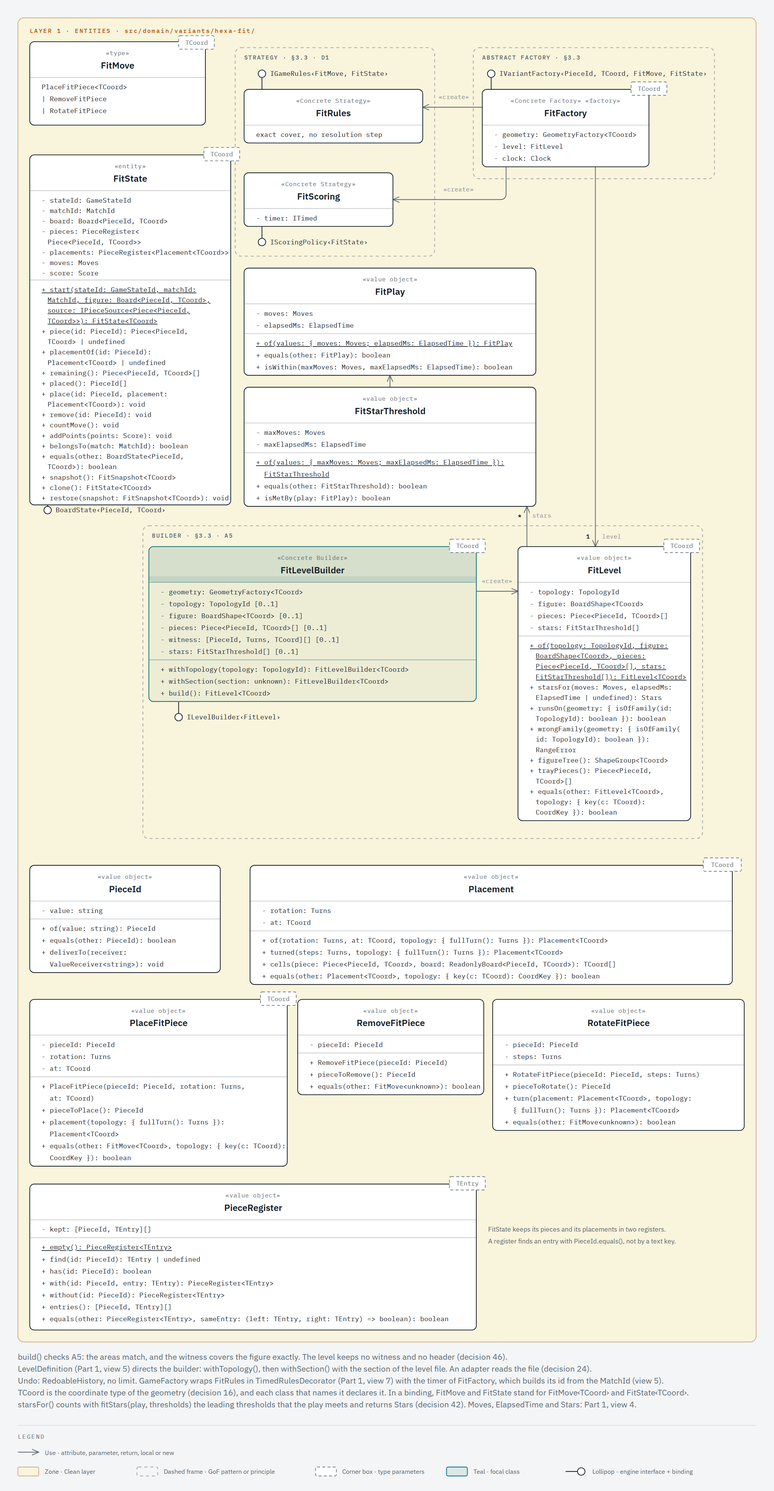
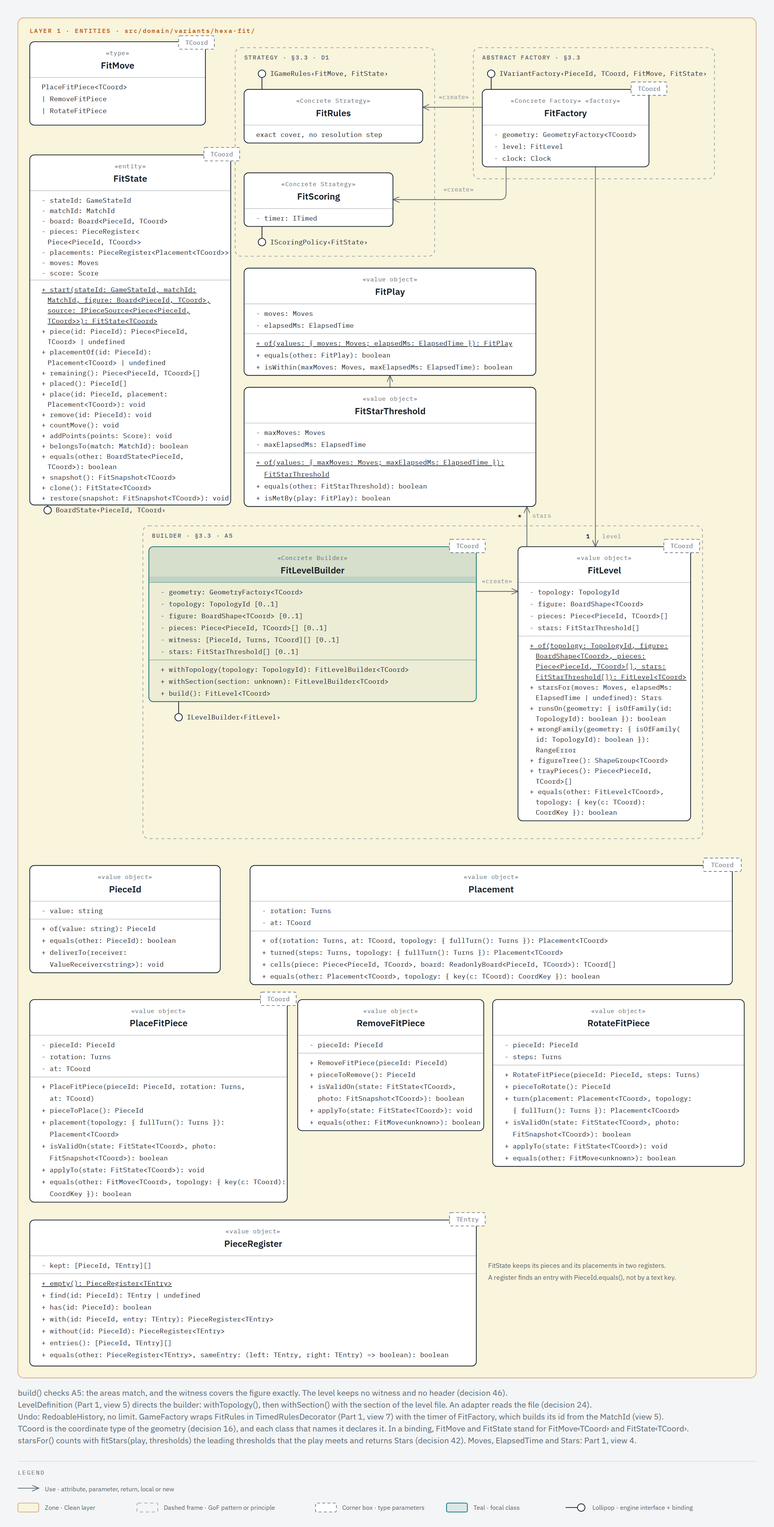
docs(architecture): describe the Fit move operations in decision 43 and the Fit view
Refs #244

diff --git a/docs/architecture/classes/views/variant-2-fit.html b/docs/architecture/classes/views/variant-2-fit.html
@@ -64,7 +64,7 @@
       <h1>Hexa Fit: levels built and checked by a Builder</h1>
 
       <svg
-        viewBox="0 0 1040 2002"
+        viewBox="0 0 1040 2050"
         xmlns="http://www.w3.org/2000/svg"
         role="img"
         aria-labelledby="fit-title fit-desc"
@@ -77,15 +77,17 @@
           thresholds of its stars as stars and counts the stars of a play with starsFor().
           FitFactory holds one FitLevel and a Clock and creates FitRules and FitScoring. It builds
           the LevelTimerId of each timer from the MatchId of the game. FitRules uses FitMove as
-          TMove and FitState as TState. Lollipops show the engine interface each variant class
-          implements, with its binding. PieceId, the cell content, and Placement, the rotation and
-          the offset of a placed piece, are value objects. PieceRegister is the value object that
-          holds the pieces and the placements of FitState and finds an entry with PieceId.equals().
-          FitState is an entity inside the GameEngine aggregate: its own GameStateId is its
-          identity, it keeps the MatchId of its game, and it changes in place only through its
-          business methods. FitPlay holds the Moves and the ElapsedTime of one won level in private
-          fields, and FitStarThreshold tells whether a play meets its two limits: it gives them to
-          isWithin() of the play. Both are value objects.
+          TMove and FitState as TState. Each Fit move holds its own check, isValidOn(), and its own
+          change, applyTo(), so FitRules asks the move and never tells the moves apart by their
+          class (decision 43). Lollipops show the engine interface each variant class implements,
+          with its binding. PieceId, the cell content, and Placement, the rotation and the offset of
+          a placed piece, are value objects. PieceRegister is the value object that holds the pieces
+          and the placements of FitState and finds an entry with PieceId.equals(). FitState is an
+          entity inside the GameEngine aggregate: its own GameStateId is its identity, it keeps the
+          MatchId of its game, and it changes in place only through its business methods. FitPlay
+          holds the Moves and the ElapsedTime of one won level in private fields, and
+          FitStarThreshold tells whether a play meets its two limits: it gives them to isWithin() of
+          the play. Both are value objects.
         </desc>
         <defs>
           <marker
@@ -146,7 +148,7 @@
           x="24"
           y="24"
           width="992"
-          height="1778"
+          height="1826"
           rx="8"
           fill="#f9f4dc"
           stroke="rgba(180,83,9,0.45)"
@@ -1228,7 +1230,7 @@
           x="40"
           y="1342"
           width="346"
-          height="224"
+          height="272"
           rx="6"
           fill="#ffffff"
           stroke="#17212a"
@@ -1283,9 +1285,18 @@
           Placement&lt;TCoord&gt;
         </text>
         <text x="56" y="1542" fill="#17212a" font-size="9" font-family="'IBM Plex Mono', monospace">
-          + equals(other: FitMove&lt;TCoord&gt;, topology: { key(c: TCoord):
+          + isValidOn(state: FitState&lt;TCoord&gt;, photo:
         </text>
         <text x="67" y="1558" fill="#17212a" font-size="9" font-family="'IBM Plex Mono', monospace">
+          FitSnapshot&lt;TCoord&gt;): boolean
+        </text>
+        <text x="56" y="1574" fill="#17212a" font-size="9" font-family="'IBM Plex Mono', monospace">
+          + applyTo(state: FitState&lt;TCoord&gt;): void
+        </text>
+        <text x="56" y="1590" fill="#17212a" font-size="9" font-family="'IBM Plex Mono', monospace">
+          + equals(other: FitMove&lt;TCoord&gt;, topology: { key(c: TCoord):
+        </text>
+        <text x="67" y="1606" fill="#17212a" font-size="9" font-family="'IBM Plex Mono', monospace">
           CoordKey }): boolean
         </text>
 
@@ -1294,7 +1305,7 @@
           x="400"
           y="1342"
           width="250"
-          height="128"
+          height="176"
           rx="6"
           fill="#ffffff"
           stroke="#17212a"
@@ -1358,6 +1369,33 @@
           font-size="9"
           font-family="'IBM Plex Mono', monospace"
         >
+          + isValidOn(state: FitState&lt;TCoord&gt;,
+        </text>
+        <text
+          x="427"
+          y="1478"
+          fill="#17212a"
+          font-size="9"
+          font-family="'IBM Plex Mono', monospace"
+        >
+          photo: FitSnapshot&lt;TCoord&gt;): boolean
+        </text>
+        <text
+          x="416"
+          y="1494"
+          fill="#17212a"
+          font-size="9"
+          font-family="'IBM Plex Mono', monospace"
+        >
+          + applyTo(state: FitState&lt;TCoord&gt;): void
+        </text>
+        <text
+          x="416"
+          y="1510"
+          fill="#17212a"
+          font-size="9"
+          font-family="'IBM Plex Mono', monospace"
+        >
           + equals(other: FitMove&lt;unknown&gt;): boolean
         </text>
 
@@ -1366,7 +1404,7 @@
           x="662"
           y="1342"
           width="338"
-          height="176"
+          height="224"
           rx="6"
           fill="#ffffff"
           stroke="#17212a"
@@ -1471,13 +1509,40 @@
           font-size="9"
           font-family="'IBM Plex Mono', monospace"
         >
+          + isValidOn(state: FitState&lt;TCoord&gt;, photo:
+        </text>
+        <text
+          x="689"
+          y="1526"
+          fill="#17212a"
+          font-size="9"
+          font-family="'IBM Plex Mono', monospace"
+        >
+          FitSnapshot&lt;TCoord&gt;): boolean
+        </text>
+        <text
+          x="678"
+          y="1542"
+          fill="#17212a"
+          font-size="9"
+          font-family="'IBM Plex Mono', monospace"
+        >
+          + applyTo(state: FitState&lt;TCoord&gt;): void
+        </text>
+        <text
+          x="678"
+          y="1558"
+          fill="#17212a"
+          font-size="9"
+          font-family="'IBM Plex Mono', monospace"
+        >
           + equals(other: FitMove&lt;unknown&gt;): boolean
         </text>
 
         <!-- Class: PieceRegister (value object, decision 49) -->
         <rect
           x="40"
-          y="1590"
+          y="1638"
           width="600"
           height="196"
           rx="6"
@@ -1485,10 +1550,10 @@
           stroke="#17212a"
           stroke-width="1"
         />
-        <line x1="40" y1="1638" x2="640" y2="1638" stroke="rgba(23,33,42,0.22)" stroke-width="1" />
+        <line x1="40" y1="1686" x2="640" y2="1686" stroke="rgba(23,33,42,0.22)" stroke-width="1" />
         <text
           x="340"
-          y="1608"
+          y="1656"
           fill="#5b6873"
           font-size="8"
           font-family="'IBM Plex Mono', monospace"
@@ -1499,7 +1564,7 @@
         </text>
         <text
           x="340"
-          y="1626"
+          y="1674"
           fill="#17212a"
           font-size="12"
           font-weight="600"
@@ -1508,13 +1573,13 @@
         >
           PieceRegister
         </text>
-        <text x="56" y="1654" fill="#17212a" font-size="9" font-family="'IBM Plex Mono', monospace">
+        <text x="56" y="1702" fill="#17212a" font-size="9" font-family="'IBM Plex Mono', monospace">
           - kept: [PieceId, TEntry][]
         </text>
-        <line x1="40" y1="1662" x2="640" y2="1662" stroke="rgba(23,33,42,0.22)" stroke-width="1" />
+        <line x1="40" y1="1710" x2="640" y2="1710" stroke="rgba(23,33,42,0.22)" stroke-width="1" />
         <text
           x="56"
-          y="1678"
+          y="1726"
           fill="#17212a"
           font-size="9"
           font-family="'IBM Plex Mono', monospace"
@@ -1522,28 +1587,28 @@
         >
           + empty(): PieceRegister&lt;TEntry&gt;
         </text>
-        <text x="56" y="1694" fill="#17212a" font-size="9" font-family="'IBM Plex Mono', monospace">
+        <text x="56" y="1742" fill="#17212a" font-size="9" font-family="'IBM Plex Mono', monospace">
           + find(id: PieceId): TEntry | undefined
         </text>
-        <text x="56" y="1710" fill="#17212a" font-size="9" font-family="'IBM Plex Mono', monospace">
+        <text x="56" y="1758" fill="#17212a" font-size="9" font-family="'IBM Plex Mono', monospace">
           + has(id: PieceId): boolean
         </text>
-        <text x="56" y="1726" fill="#17212a" font-size="9" font-family="'IBM Plex Mono', monospace">
+        <text x="56" y="1774" fill="#17212a" font-size="9" font-family="'IBM Plex Mono', monospace">
           + with(id: PieceId, entry: TEntry): PieceRegister&lt;TEntry&gt;
         </text>
-        <text x="56" y="1742" fill="#17212a" font-size="9" font-family="'IBM Plex Mono', monospace">
+        <text x="56" y="1790" fill="#17212a" font-size="9" font-family="'IBM Plex Mono', monospace">
           + without(id: PieceId): PieceRegister&lt;TEntry&gt;
         </text>
-        <text x="56" y="1758" fill="#17212a" font-size="9" font-family="'IBM Plex Mono', monospace">
+        <text x="56" y="1806" fill="#17212a" font-size="9" font-family="'IBM Plex Mono', monospace">
           + entries(): [PieceId, TEntry][]
         </text>
-        <text x="56" y="1774" fill="#17212a" font-size="9" font-family="'IBM Plex Mono', monospace">
+        <text x="56" y="1822" fill="#17212a" font-size="9" font-family="'IBM Plex Mono', monospace">
           + equals(other: PieceRegister&lt;TEntry&gt;, sameEntry: (left: TEntry, right: TEntry)
           =&gt; boolean): boolean
         </text>
         <text
           x="656"
-          y="1654"
+          y="1702"
           fill="#5b6873"
           font-size="9"
           font-family="'IBM Plex Sans', sans-serif"
@@ -1552,7 +1617,7 @@
         </text>
         <text
           x="656"
-          y="1670"
+          y="1718"
           fill="#5b6873"
           font-size="9"
           font-family="'IBM Plex Sans', sans-serif"
@@ -1583,7 +1648,7 @@
         </text>
         <rect
           x="604"
-          y="1580"
+          y="1628"
           width="48"
           height="18"
           rx="2"
@@ -1594,7 +1659,7 @@
         />
         <text
           x="628"
-          y="1592"
+          y="1640"
           fill="#5b6873"
           font-size="8.5"
           font-family="'IBM Plex Mono', monospace"
@@ -1728,8 +1793,8 @@
         >
           TCoord
         </text>
-        <!-- The footnote and the legend sit below the zone, which grew by 872. -->
-        <g transform="translate(0 872)">
+        <!-- The footnote and the legend sit below the zone, which grew by 920. -->
+        <g transform="translate(0 920)">
           <!-- Footnote: classes the budget leaves out -->
           <text
             x="24"

diff --git a/docs/architecture/classes.md b/docs/architecture/classes.md
@@ -276,7 +276,7 @@ Decisions 41 to 49 planned the units of the domain redesign, and each one names 
 40. **`GameFactory` creates the whole aggregate.** `GameFactory<TCell, TCoord, TMove, TState>` in `src/domain/engine/game-factory.ts` is the DDD factory of the aggregate: it creates the root with all its parts as one piece. It takes the `GameId` of the game, an `IVariantFactory` and a `MatchIdGenerator`. The composition root finds the variant factory of the chosen game with `isFor(gameId)` and gives both, so the variant factory keeps its id private (decision 30, #234). It takes no publisher, because the root records its events and `ApplyMove` delivers them (#233). Only the root has global identity (decision 52): the generator gives the `MatchId`, and `GameFactory` builds the local ids of the first state and of its board from it, with `GameStateId.of(matchId)` and `BoardId.of(matchId)`. The design decision of 2026-11-15 (#236) replaced the generators of the internal ids that the decision of 2026-11-10 asked for: the factory builds each internal id without a collaborator from outside the domain, and each entity still has its own id and its `equals()`. **The generator guarantees uniqueness** (decision of 2026-11-10 on #212): each `next()` of `MatchIdGenerator` gives an id that the generator did not give before. `GameFactory` does not check it and keeps no list of the ids that it gave: such a list would live only as long as one `GameFactory`, and no code compares two games of different matches. Each internal id keeps the `MatchId` of its match, so the states, the boards and the timers of two matches are different. A generator that repeats an id gives two equal engines, and their states, boards and timers are equal too; the test `should_hold_equal_games_states_boards_and_timers_when_the_match_id_generator_repeats_an_id` in `test/domain/engine/entity-ids-regression.test.ts` pins that behaviour. Only a test generator exists today. The real generator of layer 4 comes with the composition root (#162) and must keep this contract, for example with a UUID. `createGame(): GameEngine<TCell, TCoord, TMove, TState>` asks the generator for one new `MatchId`, asks the variant factory for the timer with that `MatchId`, the rules, the scoring, the history and the first state with its three ids, wraps the rules of a timed game in `TimedRulesDecorator` with the timer, gives the same timer to the root (decision 19), and returns the started `GameEngine`. `IVariantFactory` stays the Abstract Factory that creates the family of parts of one variant (decision 31), and it has no `createGame()`: to put the parts together is the same work for every variant, so one engine class does it once, and a fifth variant writes no assembly. `StartGame` keeps the `GameFactory` and the `GameRepository`: it asks for the started game and saves it, so no use case builds a domain object part by part. An error of the generator or of the variant factory leaves `createGame()` as it is thrown, and `StartGame` answers `start-failed`. The composition root gives the generator to the `GameFactory` and the publisher to `ApplyMove` (#162). The timer of a timed variant takes its local id the same way: `IVariantFactory.createTimer(matchId)` takes the `MatchId`, and `FitFactory` builds the `LevelTimerId` from it (decision 50). Views 5 and 3.2, and flow 3.
 41. **`Score` replaces the number of every score (#203).** The class of 2026-11-09 forbids primitives in the domain model, except the boolean, and gives the score as the example of a value object. `Score` in `src/domain/engine/score.ts` is a value object: `Score.of(value)` checks the value, `equals()` compares two scores by value, and the object is frozen. One rule holds for the score of a game and for the points of a turn: a safe integer of 0 or more, the rule of the backend `Score` (hexablock-api#87). Any other number throws a `RangeError`, and `-0` counts as 0. So the app never keeps a score that the backend refuses. Before #203 the app took any finite number. `add()` gives the sum of two scores as a new `Score`, and a sum above `Number.MAX_SAFE_INTEGER` throws a `RangeError`. `times(factor)` gives the product of a score and a whole factor of 0 or more, with the same limit, and any other factor throws a `RangeError`. `isHigherThan()` tells which of two scores is higher, and an equal score is not higher. `BoardSnapshot.score`, `BoardState.addPoints()`, `IScoringPolicy.score()`, `ScoringDecorator.score()`, the five scoring policies, `GameOver.finalScore`, `GameResult.score` and `ProgressRecord.score` take or return a `Score`, and each variant state keeps one in a private field. The checks of a finite score in `GameEngine`, `GameOver`, `GameResult`, `ProgressRecord` and the four states are gone: a `Score` is valid when it exists. The state still changes in place (decision 7): `addPoints()` replaces its `Score` with the sum. A policy that gives no valid score throws inside the turn, and so does a total above the largest safe integer. Both leave the turn unsaved, with the board, the score and the phase as they were. A use case never opens a domain object, so `MoveResult.score` carries the `Score`, and the presenter of layer 3 receives the number. The counters of #204 and the outcome of #207 follow the same rule. `Score.value` is private since #228. The rule of the class of 2026-11-09 says that the attributes of a value object are private, and the design decision of 2026-11-10 says that a value object delivers its datum to a receiver and that no operation returns it. `ValueReceiver<T>` in `src/domain/engine/value-receiver.ts` is the receiver, with `receive(value: T): void`. `Score.deliverTo(receiver)` gives it the number and returns nothing. Both names are the names that hexablock-api#90 fixes for the backend. An adapter of the edge implements the receiver, because a screen and a request need the number. No line of `src/domain/` or `src/application/` calls `deliverTo()`: the domain compares with `equals()` or calls a business operation (rule R-no-delivery-call in `AGENTS.md`, gate `test/gates/delivery-gate.test.ts`). The README table «Primitive types» keeps a row for `Score.deliverTo`, because its signature names `number`. `LinesScoring.lineBonus()` and `MergeTile.points()` return a `Score` too, so no class of `src/domain/` has a score of type `number` in a public signature. `MergeScoring` adds the points of the merged tiles with `add()`. `ComboMultiplierDecorator` multiplies the line bonus with `times()`, and it adds nothing when the placement clears no line, so no negative factor reaches `times()`. The factor of `times()` is a count, not a score, and the README table gives its reason. APP-NFR-25 now states the rule of the class. Views 1, 4 and 5 draw the `Score` box.
 42. **Counters are value objects (#204).** `Moves`, `ElapsedTime`, `Stars` and `LevelId` in `src/domain/engine/` replace the numbers and the text of the move count, the time of play, the stars and the level id, with the names of the backend twin (hexablock-api#88). Each one is a value object: its factory checks the value, `equals()` compares two values, and the object is frozen. The rule is the rule of the backend, so the app never keeps a value that the backend refuses. `Moves.of()`, `ElapsedTime.ofMs()` and `Stars.of()` take a safe integer of 0 or more, throw a `RangeError` for any other number, and store `-0` as 0. `LevelId.of()` keeps the text as it arrives and throws a `RangeError` for an empty or blank id. Before #204 a time and a star count could have a fraction: `GameResult` took any finite time of 0 or more, and `ProgressRecord` took any finite star count of 0 or more. `Moves.plusOne()` gives the next count, `Moves.isFewerThan()` and `ElapsedTime.isShorterThan()` compare two values, with the names of the backend. `checkMoveCount()` and its file `move-count.ts` are gone: the check lives in `Moves.of()`. `GameResult` holds a `Moves`, an optional `LevelId` and an optional `ElapsedTime`, and `ProgressRecord` holds an optional `LevelId` and optional `Stars`. Neither has a check of its own, and `equals()` asks each value object. Their fields are private since #240. `GameResult.recordWith(stars?)` gives the `ProgressRecord` that a progress model keeps: the game id, the score and the level id of the result, with the stars that the model counts. `ProgressRecord.improves(other)` tells whether a record is better than the stored record, by the order of DS-4 and DS-12: a level ranks by its stars with `Stars.isMoreThan()`, a game with no levels ranks by its score with `Score.isHigherThan()`, and a tie keeps the stored record. The record holds no moves and no time yet, so two records of a level with equal stars tie; #156 fixes the fields of the record. `ITimed.elapsedMs()` and `LevelTimer.elapsedMs()` return an `ElapsedTime`. `LevelTimer` still gives 0 for a clock that goes back, and it drops a fraction of a millisecond, because an `ElapsedTime` is a whole number. `LevelTimer` stayed a plain class here: it became an entity in #214 (decision 50). `FitState` keeps a `Moves` in a private field, its photo carries it as `FitSnapshot.moves`, and `FitState.countMove()` still changes the state in place (decision 7): it replaces the `Moves` with `plusOne()`. `FitState.restore()` no longer checks the count of a photo, because a `Moves` is valid when it exists. The count of cleared Sort stacks is a counter too: `ClearedStacks` in `src/domain/variants/hexa-sort/cleared-stacks.ts`, with `plusOne()` and `isAtLeast()`. `SortState` keeps one, `SortSnapshot.goalsDone` and `SortView.goalsDone` carry it, and `GoalCount.isReachedBy()` takes it. `FitPlay`, `FitStarThreshold`, `SortPlay` and `SortStarThreshold` are value objects built on the counters, each with a factory method and `equals()`. A threshold keeps its limits private and `isMetBy(play)` tells whether a play meets it: a play that equals a limit meets it, and a play that passes a limit by one move or by one millisecond misses it. A play keeps its counters private too (#240): `isMetBy(play)` gives the limits to `FitPlay.isWithin(maxMoves, maxElapsedMs)` or `SortPlay.isWithin(maxMoves)`, and the play answers. `fitStars()` and `sortStars()` count the leading thresholds that the play meets and return `Stars`, so the stars of a play are the same as before. A use case never opens a domain object, so `MoveResult.elapsedMs` carries the `ElapsedTime` (decision 41). The `value` of `Moves`, `ElapsedTime`, `Stars`, `LevelId` and `ClearedStacks` is private since #228, as `Score.value` is (decision 41). Each class has `deliverTo(receiver)`, which gives the number or the text to a `ValueReceiver` and returns nothing, because the screen and the sync request need it. No line of `src/domain/` or `src/application/` calls it (rule R-no-delivery-call), and the README table «Primitive types» keeps a row for the `deliverTo()` of the four engine classes. The seed stayed a number until decision 48. `SortSnapshot.clearedTiles` stays a list of numbers: it is a fact of the last turn for the scoring, not one of the counters of #204. Views 3 and 4, Fit and Sort, and the `MoveResult` and `GameResult` boxes of flows 1 to 4 and of view 3.5.
-43. **Every move is a value object (#205).** `PlacePiece`, `Slide`, `PlaceFitPiece`, `RemoveFitPiece`, `RotateFitPiece` and `PlaceStack` each have `equals()` and only private fields. The constructors and `Slide.of()` keep their signatures. `PlaceStack` is a class in `src/domain/variants/hexa-sort/place-stack.ts`, with a private constructor and the factory method `PlaceStack.on(at)`: an object literal is no longer a move. A move checks what it can check alone: `PlacePiece` throws a `RangeError` for a tray index that is not a safe integer of 0 or more, so `LinesRules.isValid()` has no check of the index. Before #205 the rules refused such a move, and now the move does not exist. The rules and the state keep the checks that need the board or the topology, such as the axis of a `Slide`, and they read no field of a move: they ask the move, or they pass it to a business method of the state. `LinesState` asks a `PlacePiece` for its tray piece (`pieceIn()`), for the tray without it (`trayWithout()`) and for the cells that the piece covers (`cells()`), and the move builds the two errors of a refused placement (`missingPiece()`, `misfit()`), so the messages stay the same. `MergeState` asks a `Slide` whether it lies on an axis of the topology (`isAlong()`), for the line through a cell (`lineThrough()`) and for the order of a line (`fromLeadingEdge()`). The three Fit moves have no `kind` field: `FitMove` stays a closed union, and `FitRules` tells the moves apart by their class. A Fit move gives its piece with a query that says what the move does with it (`pieceToPlace()`, `pieceToRemove()` and `pieceToRotate()`, #234), a `PlaceFitPiece` gives its `Placement` (`placement()`), and a `RotateFitPiece` turns a placement (`turn()`). `SortRules` asks a `PlaceStack` for its cell (`cell()`). These piece queries and `cell()` return a value object or a coordinate of the domain, never a primitive. A Fit move compares its rotation count as the player gave it, and `Placement` still normalizes the count. `TCoord` has no bound (decisions 16 and 44), so a move compares its coordinate through `GridTopology.key()`, as `Placement` does, and the `equals()` of `PlacePiece`, `PlaceFitPiece` and `PlaceStack` takes the topology. `SlideSense` stayed a union of two texts until decision 45 (#207). Now it is a class with two instances, and `Slide.fromLeadingEdge()` asks its sense for the order. The four variant views draw the six moves as «value object» boxes, and `FitMove` as a «type» box.
+43. **Every move is a value object (#205).** `PlacePiece`, `Slide`, `PlaceFitPiece`, `RemoveFitPiece`, `RotateFitPiece` and `PlaceStack` each have `equals()` and only private fields. The constructors and `Slide.of()` keep their signatures. `PlaceStack` is a class in `src/domain/variants/hexa-sort/place-stack.ts`, with a private constructor and the factory method `PlaceStack.on(at)`: an object literal is no longer a move. A move checks what it can check alone: `PlacePiece` throws a `RangeError` for a tray index that is not a safe integer of 0 or more, so `LinesRules.isValid()` has no check of the index. Before #205 the rules refused such a move, and now the move does not exist. The rules and the state keep the checks that need the board or the topology, such as the axis of a `Slide`, and they read no field of a move: they ask the move, or they pass it to a business method of the state. `LinesState` asks a `PlacePiece` for its tray piece (`pieceIn()`), for the tray without it (`trayWithout()`) and for the cells that the piece covers (`cells()`), and the move builds the two errors of a refused placement (`missingPiece()`, `misfit()`), so the messages stay the same. `MergeState` asks a `Slide` whether it lies on an axis of the topology (`isAlong()`), for the line through a cell (`lineThrough()`) and for the order of a line (`fromLeadingEdge()`). The three Fit moves have no `kind` field, and `FitMove` stays a closed union. Each Fit move holds its own check and its own change (#244): `isValidOn(state, photo)` tells whether the move is valid on a `FitState` and the photo of that state, and `applyTo(state)` changes the state only through its business methods `place()` and `remove()`. A move reads the board through the photo, so it still holds no figure: a `PlaceFitPiece` builds its placement on that board, and a `RotateFitPiece` turns its placement on it. `RotateFitPiece.applyTo()` throws a `RangeError` that carries the piece as its `cause` for a piece off the figure, before any change. `FitRules` calls the two operations and never tells the moves apart by their class, so a new kind of move adds a class and changes no function that checks or applies a move. `validMoves()` takes one photo for every move that it checks. A value outside the union reaches the rules only through a cast: it has no move operation, so `FitRules` refuses it with a `RangeError` (`Unknown Fit move: …`) before it calls an operation of the value. The `equals()` of a Fit move compares its parts only with a move of its own class: a private helper of `fit-move.ts` compares the prototypes of the two objects and names no move class. So two moves of two kinds are never equal, and no file of `src/domain/variants/hexa-fit/` uses `instanceof` on a Fit move (gate `test/gates/fit-move-dispatch-gate.test.ts`). A Fit move gives its piece with a query that says what the move does with it (`pieceToPlace()`, `pieceToRemove()` and `pieceToRotate()`, #234), a `PlaceFitPiece` gives its `Placement` (`placement()`), and a `RotateFitPiece` turns a placement (`turn()`). `SortRules` asks a `PlaceStack` for its cell (`cell()`). These piece queries and `cell()` return a value object or a coordinate of the domain, never a primitive. A Fit move compares its rotation count as the player gave it, and `Placement` still normalizes the count. `TCoord` has no bound (decisions 16 and 44), so a move compares its coordinate through `GridTopology.key()`, as `Placement` does, and the `equals()` of `PlacePiece`, `PlaceFitPiece` and `PlaceStack` takes the topology. `SlideSense` stayed a union of two texts until decision 45 (#207). Now it is a class with two instances, and `Slide.fromLeadingEdge()` asks its sense for the order. The four variant views draw the six moves as «value object» boxes, and `FitMove` as a «type» box. The Fit view draws `isValidOn()` and `applyTo()` in each Fit move box.
 44. **Coordinates are value objects (#206).** `HexCoord`, `SquareCoord` and `TriangleCoord` are classes in the files of their topologies, each with a private constructor, the factory method `of()`, private numbers, `equals()` and a frozen instance. `of()` holds the check of the values: a value that is not a safe integer throws a `RangeError`, and a negative zero is stored as 0. `hex()`, `square()` and `triangle()` keep their signatures and call `of()`, and `GeometryFactory.createCoord()` keeps its list of numbers, because a level file has no types. A coordinate does the calculations on its own values, and no loose function of a topology module does them. `HexCoord` has `plus(other)`, `opposite()`, `distanceTo(other)` and `turned()`, a sixth of a turn. `SquareCoord` has `plus(other)`, `opposite()` and `turned()`, a quarter turn. `TriangleCoord` has other operations, because a sum of one value at a time flips its orientation (decision 16): `isUp()`, the four steps `left()`, `right()`, `above()` and `below()`, `translated(offset)`, which counts lattice cells, and `turned()`. The exported function `isUp(c)` stays as the short name of `TriangleCoord.isUp()`. Each coordinate has `key()`, its two values branded as a `CoordKey`, and no `toString()` (#237). Its topology gives that key to the engine in its own `key()` and reads no text, and another topology can build another key (`coord-key.ts`). The topology keeps what belongs to the grid: the neighbors, the lines, the rings and the regions. This changes decision 16 in one point: a coordinate does the calculation on its own values. `TCoord` gets no bound (decision on #206, 2026-11-10). A bound with `equals()` would reach 64 to 68 declarations of `src/` for two pure comparisons, and the other uses of `key()` are keys of a `Map` or a `Set`. So `Board`, `Piece`, `BoardShape`, `Placement` and the moves still compare and key a coordinate through `GridTopology.key()`, and the guard of decision 16 holds. `Radius` and `RegionSize` keep their number private, and a topology asks them through operations. `Radius` has `offsets()`, the whole offsets from minus the radius to the radius, `measures(distance)`, which tells if a distance is the radius, and `expand(start, step)`, which runs a step once for each unit. `RegionSize` has `indexes()`, `offsets()` and `holds(distance)`. The numbers that these operations give and take are counts that a topology turns into coordinates with the coordinate factory, and the README table «Primitive types» has their rows. Since #165 each coordinate has `deliverTo(receiver: ValueReceiver<readonly [number, number]>): void`: it gives its two values, `[q, r]` or `[col, row]`, to a receiver of the edge and returns nothing (decision 41). Only the screen layouts of layer 4 call it (decision 17). The domain and the use cases never call it (rule R-no-delivery-call), and they still compare with `equals()` and key with `GridTopology.key()`. View 6.
 45. **Closed unions are classes (#207).** Nine closed unions of texts are classes with a closed set of instances: `Outcome` (`playing`, `victory`, `gameOver`) in `outcome.ts`, `TopologyId` (`hex`, `square`, `triangle`) in `geometry-factory.ts`, `SlideSense` (`forward`, `backward`) in `slide.ts`, and the axis and the direction of each topology in the file of that topology: `HexAxis` and `HexDirection`, `SquareAxis` and `SquareDirection`, `TriangleAxis` and `TriangleDirection`. Each class has a private constructor and one shared, frozen instance per value in a static member. The constructor throws a `RangeError` after the last instance, because `private` holds only at compile time, so no instance exists outside the set. `equals()` compares by identity, because each value has one instance. `Resolution.equals()` and `Slide.equals()` call the `equals()` of their parts. Each class has an operation of its own. `Outcome.endsTheGame()` is true for `victory` and `gameOver`, and `GameEngine` and `TimedRulesDecorator` ask it. `SlideSense.fromLeadingEdge(line)` orders a line for a slide. An axis has `forward(from)` and `backward(from)`, and a direction has `neighborOf(c)`: each one holds its step, so the three topologies keep no table of steps by name, and they use the operations of the coordinates of decision 44. `TopologyId` has only `equals()`, `of()` and `deliverTo()`: no caller needs more. No domain code compares a text to know an outcome, a topology, a sense, an axis or a direction. `GamePhase.after()` asks each outcome of the set with `equals()`, and `FitFactory` asked `geometry.id.equals(level.topology)` until decision 46, where it asks the level. A level file and a JSON body keep the texts: `Outcome.of(text)` and `TopologyId.of(text)` give the shared instance and throw a `RangeError` for an unknown text. The axes, the directions and the senses have no `of()`, because no file names them today. Each class keeps its name private and gives it with `deliverTo(receiver)` to a `ValueReceiver<string>` of an adapter of the edge, and no operation returns it, `toString()` included (#237, rule R-no-delivery-call). An error that names one of these values carries the object as its `cause`, and the edge delivers its text: the error of an axis or a direction of another topology, and the error of a Fit level of another family (decision 46). `MoveResult.outcome`, `Resolution.outcome` and `GameOver.outcome` carry the `Outcome` itself, by the rule of #203. `GridAxis` and `GridDirection` in `grid-topology.ts` are the bounds of `TAxis` and `TDirection`, in place of `string` (decision 16). They hold only `equals()`. Each parameter defaults to its bound on `GridTopology`, `Board` and `ReadonlyBoard`. A cast still passes the compiler, so `line()` and `neighbor()` check the class at runtime and throw a `RangeError`. Since #237 its message names no value, and the error carries the cast value as its `cause`. Before #207 a `switch` with a `never` branch checked the `Outcome` union at compile time. A class has no such check: `phaseOf()` throws a `RangeError` for an outcome with no phase, with the cast value as its `cause` since #237, and a test asks every instance of the set for its phase. The gate `test/docs/primitive-types.test.ts` now counts a literal type as a primitive (APP-NFR-25). View 1 draws `Outcome`, view 6 draws `TopologyId` and the six axis and direction classes, the Merge view draws `SlideSense`, and views 2 and Merge write the bound `GridAxis` in the corner boxes. Views 1, 2, 6 and Merge.
 46. **`FitLevel` is a class (#208).** `FitLevel` in `src/domain/variants/hexa-fit/fit-level.ts` is a value object that guards its own invariant, by the rule of the class of 2026-11-09: a value object validates itself when it is created. It has a private constructor, the factory method `FitLevel.of(topology, figure, pieces, stars)`, four private fields, `equals()` and a frozen instance. An object literal is no longer a level. `of()` makes every check that needs only the level. A level with two pieces of one id throws a `RangeError`, with the message that `FitState.start()` gave before (since #237 the message names no id, and the error carries the id as its `cause`), and so does a piece list that holds `undefined`, with the message of `FixedListPieceSource`, which still holds that check. So such a level cannot exist. Before #208 the first error came when the game started and the second when the factory created the piece source. `of()` copies the piece list and the list of star thresholds and freezes each copy, so a change to an array of the caller does not change the level, and the level never lets a list out that a caller can write. `FitState.start()` no longer checks the ids: `FitFactory` gives it only the pieces of a level. A caller that gives `start()` a loose source with a repeated id gets a state that keeps the last piece of that id, and the test `should_keep_one_piece_of_an_id_when_a_piece_source_repeats_a_piece_id` in the Fit rules suite pins it. Only tests call `start()` with a loose source. The level cannot check its figure, because only a topology finds a repeated coordinate (decision 44), so `Board` still refuses that figure when the game starts. `FitFactory` keeps the one check that needs its geometry, and it reads no field of the level: it asks `runsOn(geometry)`: the level asks the geometry `isOfFamily()`, because the geometry keeps its family private (#234), and the level builds the error with `wrongFamily(geometry)`. The error carries the topology of the level and the geometry as its `cause`. Since #237 its message names no topology, and the error carries the topology of the level and the family of the geometry as its `cause`. The factory asks `figureTree()` for the figure as a tree of cells for `BoardBuilder`, and `trayPieces()` for the frozen list of the pieces for its `FixedListPieceSource`. `equals(other, topology)` compares the family, the figure, the pieces in their order and the star thresholds in their order, because the tray keeps the order of the level. It takes the topology, because `TCoord` has no bound (decisions 16 and 44). `FitLevelBuilder` creates the level from a level file through `of()` (#166, decision 15). Since #166 the level holds the thresholds of its stars and answers `starsFor()` (decision 36). The planned fields `header` and `witness` of the Fit view are gone. The level keeps no header, because no reader of a level needs its id, its order or its version: the list of levels reads them from the `LevelDefinition` (decision 24). It keeps no witness, because only `build()` checks the witness (A5). The Fit view.

diff --git a/docs/EXTENSIBILITY.md b/docs/EXTENSIBILITY.md
@@ -21,7 +21,7 @@ A new variant adds classes and data. It changes no engine file, no other variant
    - **Business methods.** The state changes in place, only through its own methods with business names. Each one returns nothing, and a refused input throws a `RangeError` and leaves the state as it was. `addPoints(points: Score)` adds the points of a turn, and the state keeps its score as a [`Score`](../src/domain/engine/score.ts).
    - **The photo.** `snapshot()` returns a frozen `FillSnapshot`, which extends `BoardSnapshot<FillCell, TCoord>` with the data of the variant and narrows `view()`, the plain data for the screen (decision 29). `restore(snapshot)` takes a photo of the same state back in place, and calls `checkOwnSnapshot()` before it writes anything.
    - **The gate.** `test/gates/state-writes-gate.test.ts` reads the new state file too (rule R-state-writes in `AGENTS.md`).
-3. Write the rules: `FillRules` extends `BaseGameRules<FillMove, FillState>` and implements the steps `isValid()`, `apply()`, `resolve()` and `evaluate()`, plus `validMoves()`, the lazy generator of the valid moves (decision 33). The rules read the photo of the state and ask the state queries with business names. They change the state only through its business methods, and `apply()` returns the state that it receives. The template method `playTurn()` stays in the engine (D13).
+3. Write the rules: `FillRules` extends `BaseGameRules<FillMove, FillState>` and implements the steps `isValid()`, `apply()`, `resolve()` and `evaluate()`, plus `validMoves()`, the lazy generator of the valid moves (decision 33). The rules read the photo of the state and ask the state queries with business names. They change the state only through its business methods, and `apply()` returns the state that it receives. When Hexa Fill has several kinds of move, each move class holds its own check and its own change, as the Fit moves do with `isValidOn()` and `applyTo()` (decision 43). The rules ask the move and never tell the moves apart by their class, so a new kind of move adds a class. The template method `playTurn()` stays in the engine (D13).
 4. Write the scoring policy: `FillScoring` implements `IScoringPolicy<FillState>`. Its `score(before, after)` reads two photos of the state, `SnapshotOf<FillState>`, and returns the points of the turn as a `Score`, a safe integer of 0 or more. A bonus is a subclass of `ScoringDecorator`.
 5. Write the factory: `FillFactory<TCoord>` implements `IVariantFactory<FillCell, TCoord, FillMove, FillState<TCoord>>`. It keeps `GameId.of('hexa-fill')` in a private field and answers `isFor(gameId)`, so the composition root finds it by the id of the game (#234). It keeps the [`GeometryFactory<TCoord>`](../src/domain/engine/geometry-factory.ts) that it receives in its `geometry` attribute, and it builds its board with a [`BoardBuilder`](../src/domain/engine/board-builder.ts) over that geometry (D11). The composition root chooses the family, for example [`HexGeometry`](../src/domain/engine/hex-geometry.ts), so the same factory runs on any figure. It creates the rules, the piece source, the scoring policy, the board, the progress model, the initial state and the history (decision 31). The factory creates no id of a match, a state or a board. `createTimer(matchId)` takes the `MatchId` of the game: Hexa Fill has no timer and returns `undefined`, and a timed variant builds the `LevelTimerId` of its timer from it (decision 50). `GameFactory` wraps the rules of a timed variant in `TimedRulesDecorator` and gives the timer to the root. `createBoard(boardId)` passes the [`BoardId`](../src/domain/engine/board-id.ts) that it receives to `BoardBuilder.build(boardId)`. `createInitialState(matchId, stateId, boardId)` gives the first state its `GameStateId`, the `MatchId` of its game and the board of `createBoard(boardId)`. `GameFactory` asks its `MatchIdGenerator` for the `MatchId`, builds the two local ids from it and gives the same `MatchId` to the `GameEngine`. For the parts that it does not write, it picks engine classes: `SeededPieceSource` or `FixedListPieceSource`, `HighScoreProgress` or `LevelProgress`, `MoveHistory` or `RedoableHistory` (decision 3). A part that the game does not have, such as a piece source or undo, is none.
 6. If Hexa Fill has levels, write `FillLevel` and `FillLevelBuilder`, which implements [`ILevelBuilder<FillLevel>`](../src/domain/engine/level-builder.ts) and builds the level step by step (D9). Its `withTopology()` refuses a topology of another family, and its `withSection()` checks the section of the Fill level file and turns each coordinate into a `TCoord` with the `GeometryFactory` that the builder holds. Add one level file per level in `src/adapters/levels/fill/`, in the shared level format (DS-6). An adapter reads each file into a [`LevelDefinition`](../src/domain/engine/level-definition.ts), which directs the builder: the topology, then the section (decision 24). [`FitLevelBuilder`](../src/domain/variants/hexa-fit/fit-level-builder.ts) is the example.
